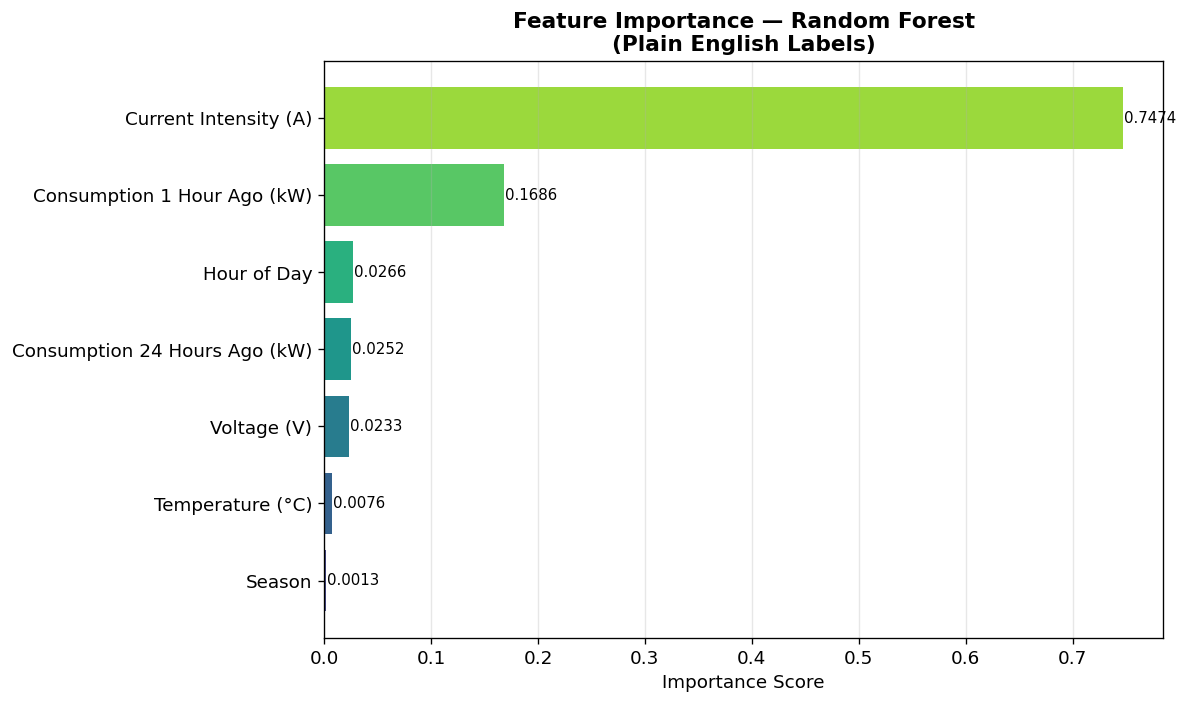
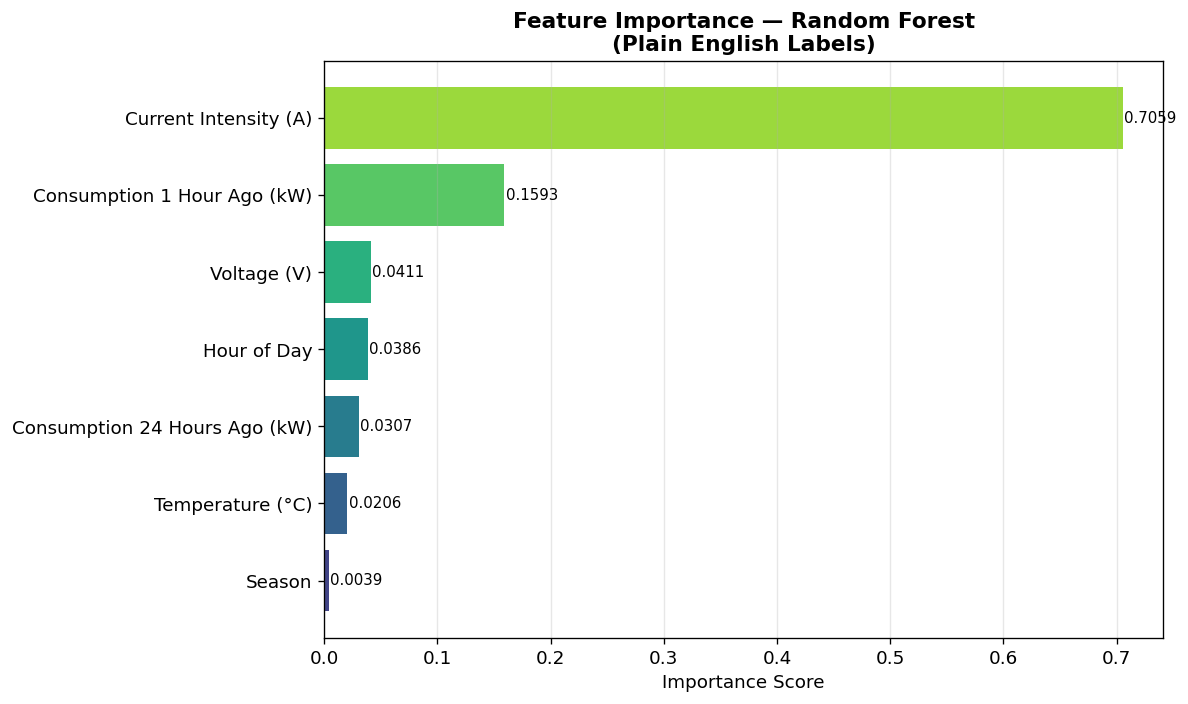
Configure direct Render deployment: compress models under 20MB, add render.yaml blueprint, track trained pickles

diff --git a/main.py b/main.py
@@ -258,8 +258,8 @@ tscv_meta = TimeSeriesSplit(n_splits=5)
 # --- Tune Random Forest ---
 print("\n[6.1] Tuning RandomForestRegressor (n_iter=5)...")
 rf_param_grid = {
-    'n_estimators':    [200, 300, 500],
-    'max_depth':       [10, 20, 30, None],
+    'n_estimators':    [50, 100],
+    'max_depth':       [8, 12],
     'min_samples_split': [2, 5, 10],
     'min_samples_leaf':  [1, 2, 4],
     'max_features':    ['sqrt', 'log2', 0.5],